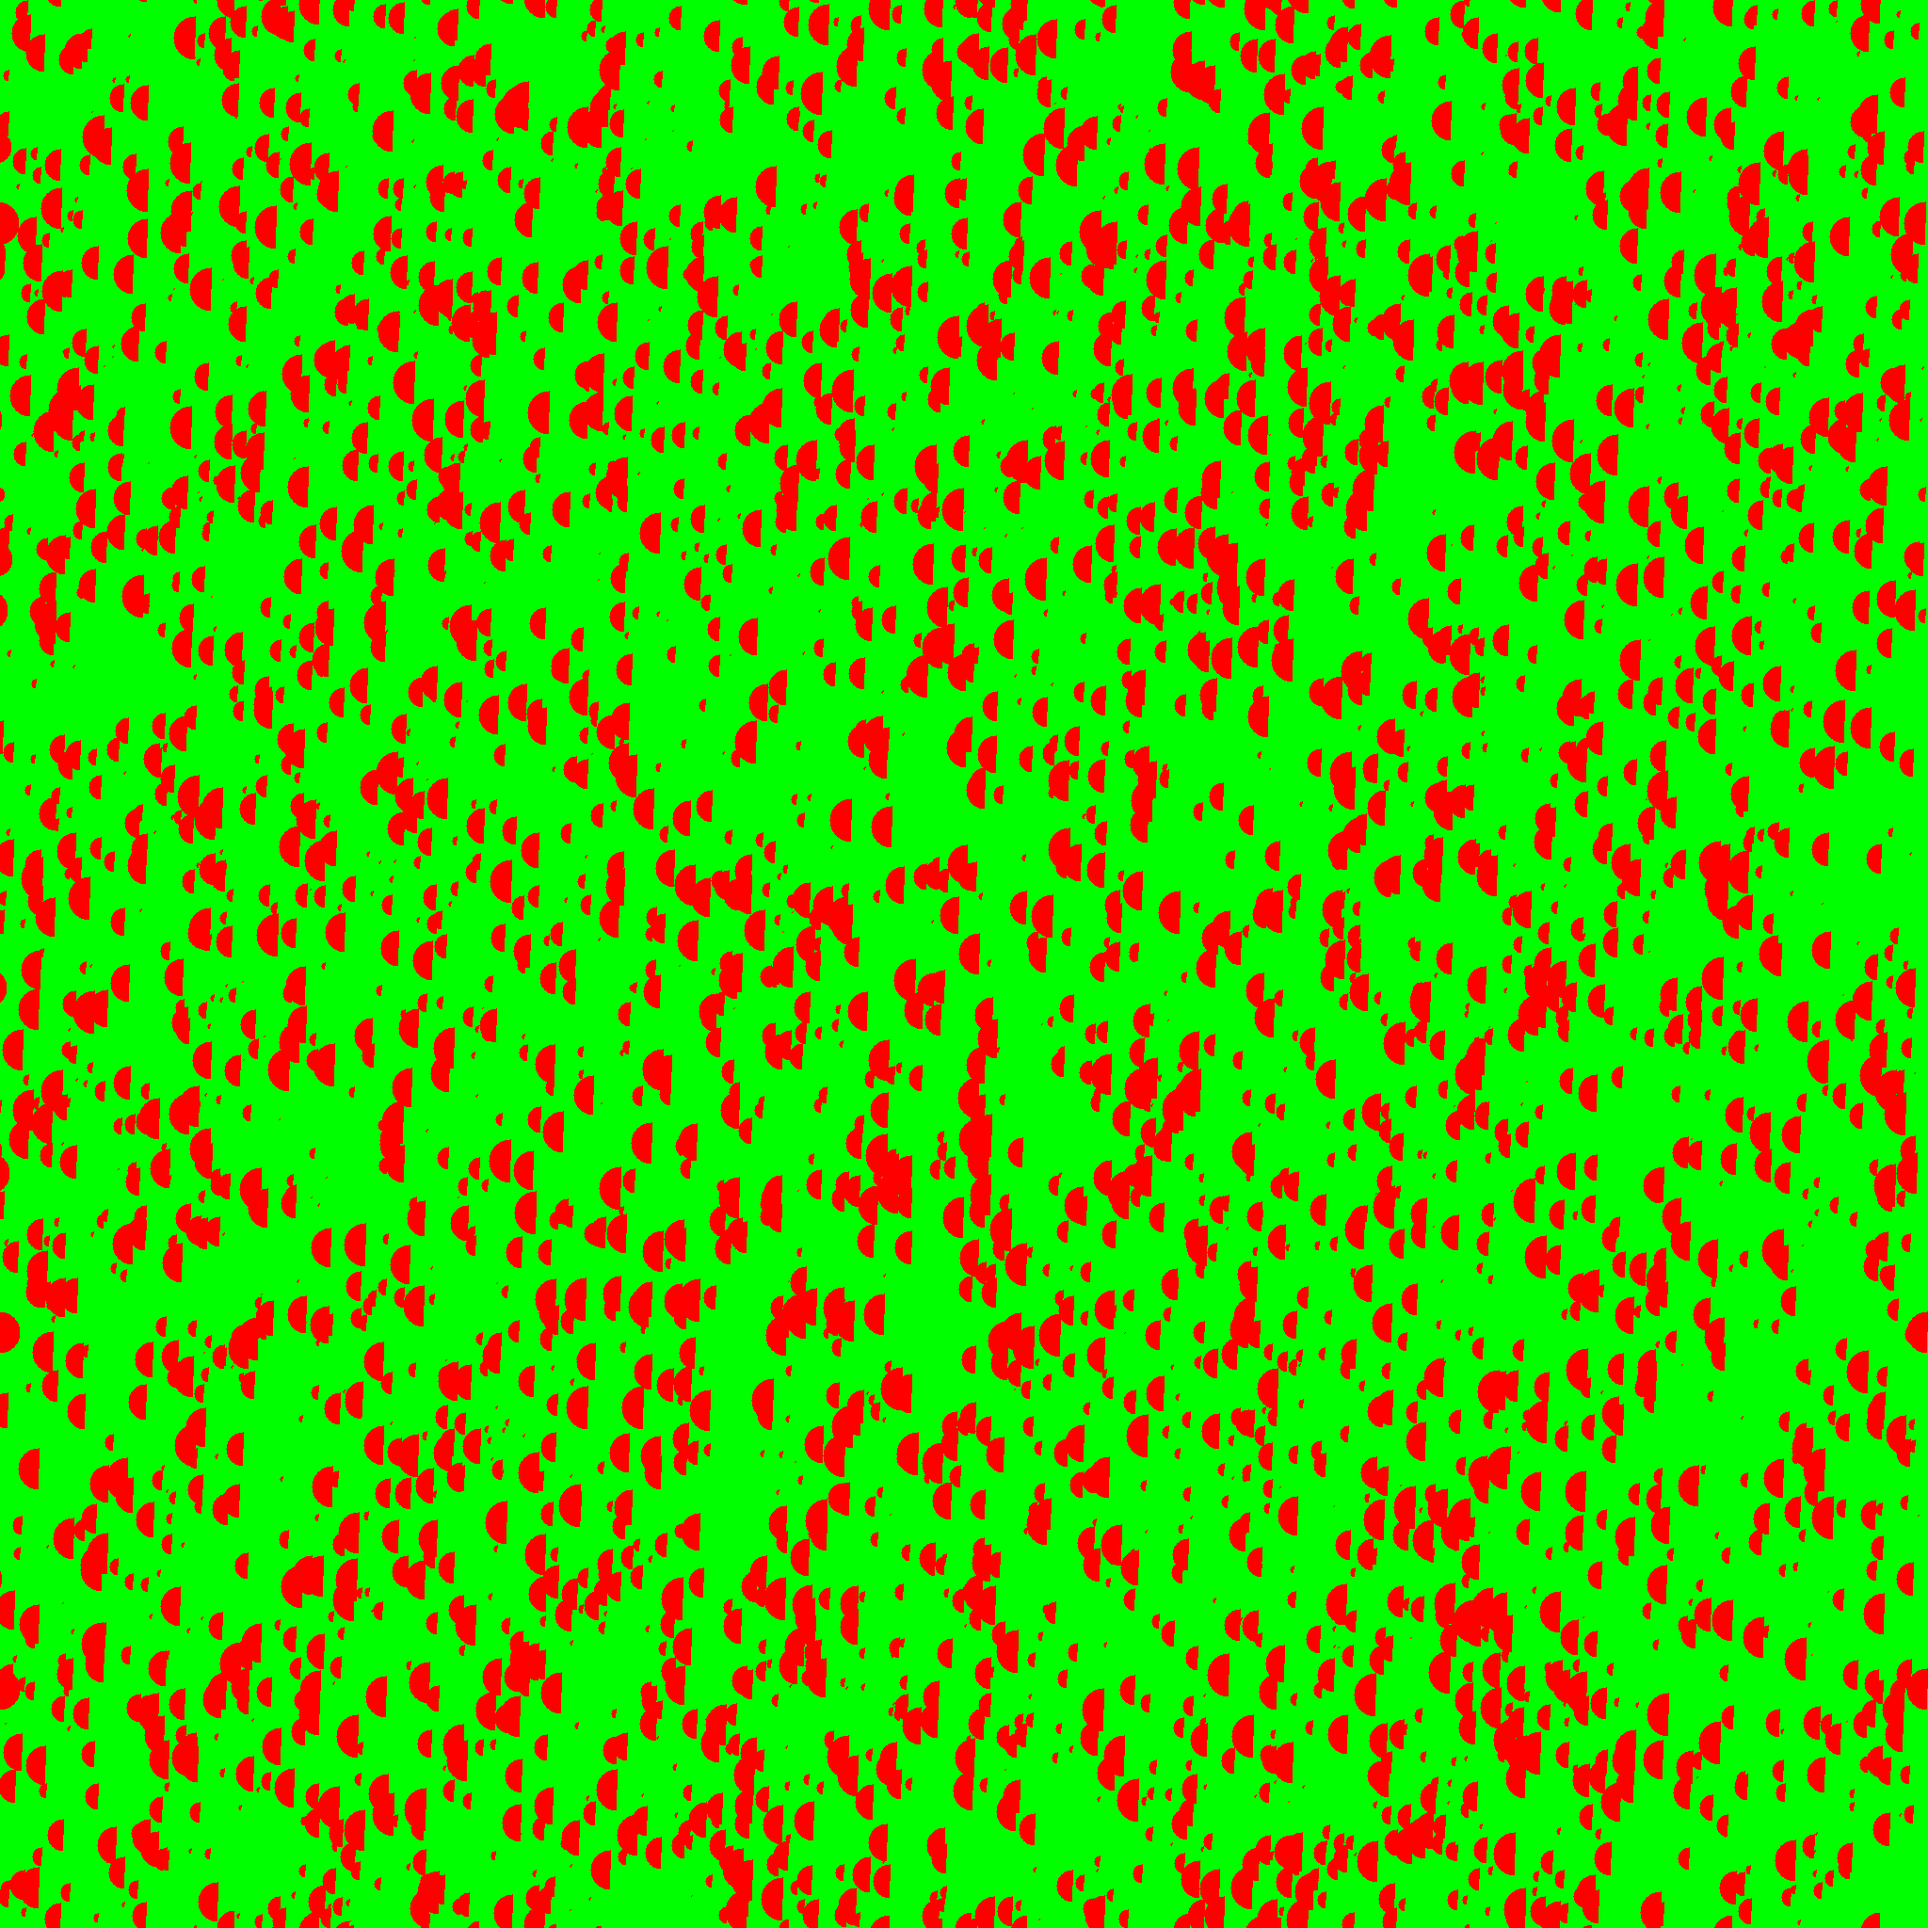
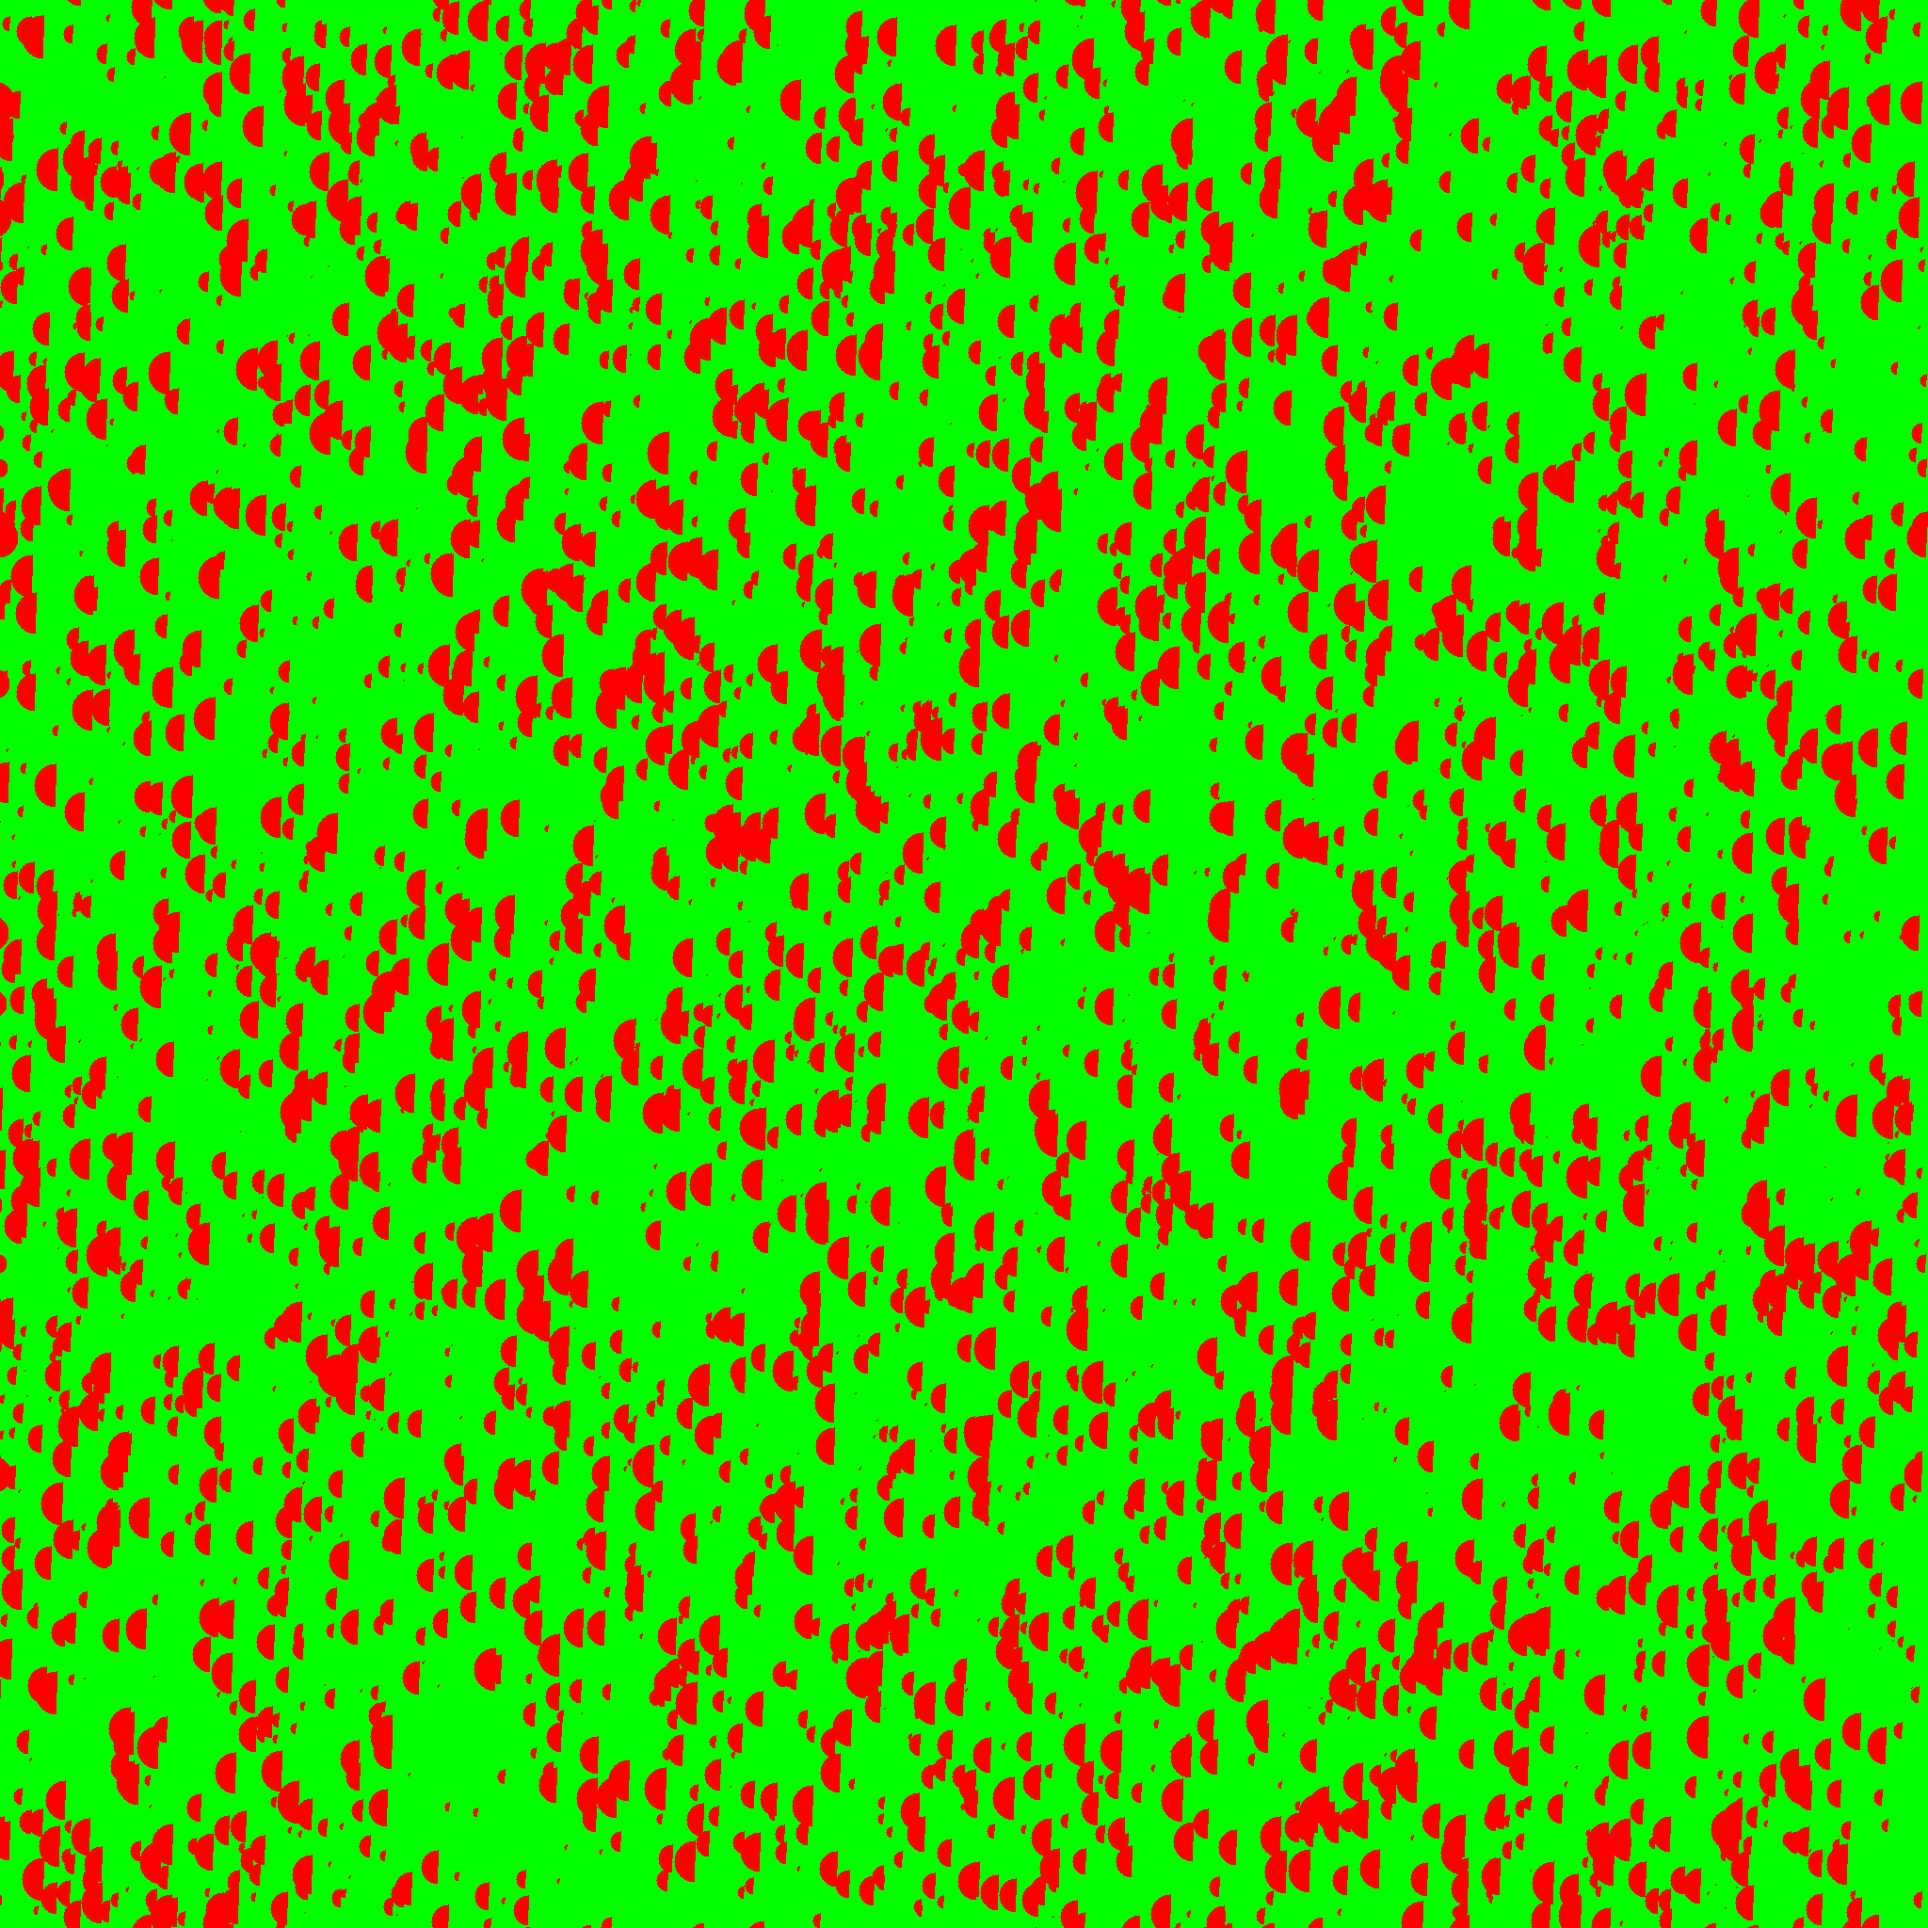
update

diff --git a/src/rt/main/actors/Block.java b/src/rt/main/actors/Block.java
@@ -33,8 +33,6 @@ public class Block extends BoxActor {
 		}else{ 
 			draw = false;
 		}
-
-		tickle();
 	}
 
 	@Override
@@ -89,32 +87,32 @@ public class Block extends BoxActor {
 				Block block_top = chunk.getBlock((int)(x/SIZE)%16, Math.min(Chunk.HEIGHT, (int)((y+Block.SIZE)%(mod)) / mod_div), (int)(z/SIZE)%16);
 				if(block_top.isSolid()){
 					if(!(block_top.isTransparent()))
-						this.sides[2].draw = false;
+						this.getSide("top").draw = false;
 				}
 				Block block_bottom = chunk.getBlock((int)(x/SIZE)%16, Math.max(0, (int)((y-Block.SIZE)%(mod)) / mod_div), (int)(z/SIZE)%16);
 				if(block_bottom.isSolid()){
 					if(!(block_bottom.isTransparent()))
-						this.sides[3].draw = false;
+						this.getSide("bottom").draw = false;
 				}
 				Block block_left = chunk.getBlock(Math.max(0, (int)((x-Block.SIZE)/SIZE)%16), (int)((y)%(mod)) / mod_div, (int)(z/SIZE)%16);
 				if(block_left.isSolid()){
 					if(!(block_left.isTransparent()))
-						this.sides[0].draw = false;
+						this.getSide("left").draw = false;
 				}
 				Block block_right = chunk.getBlock(Math.min(16, (int)((x+Block.SIZE)/SIZE)%16), (int)((y)%(mod)) / mod_div, (int)(z/SIZE)%16);
 				if(block_right.isSolid()){
 					if(!(block_right.isTransparent()))
-						this.sides[1].draw = false;
+						this.getSide("right").draw = false;
 				}
 				Block block_front = chunk.getBlock((int)(x/SIZE)%16, (int)((y)%(mod)) / mod_div, Math.min(16, (int)((z+Block.SIZE)/SIZE)%16));
 				if(block_front.isSolid()){
 					if(!(block_front.isTransparent()))
-						this.sides[4].draw = false;
+						this.getSide("front").draw = false;
 				}
 				Block block_back = chunk.getBlock((int)(x/SIZE)%16, (int)((y)%(mod)) / mod_div, Math.max(0, (int)((z-Block.SIZE)/SIZE)%16));
 				if(block_back.isSolid()){
 					if(!(block_back.isTransparent()))
-						this.sides[5].draw = false;
+						this.getSide("back").draw = false;
 				}
 			}
 		}

diff --git a/src/rt/main/actors/BoxSide.java b/src/rt/main/actors/BoxSide.java
@@ -34,6 +34,7 @@ public class BoxSide{
 			//back
 			if(type.equals("back")){
 				GL11.glPushMatrix();
+			    GL11.glCullFace(GL11.GL_BACK);
 				if(texture != null){
 					GL11.glEnable(GL11.GL_TEXTURE_2D);
 					texture.bind();
@@ -63,6 +64,7 @@ public class BoxSide{
 			//front
 			if(type.equals("front")){
 				GL11.glPushMatrix();
+				GL11.glCullFace(GL11.GL_FRONT);
 				if(texture != null){
 					GL11.glEnable(GL11.GL_TEXTURE_2D);
 					texture.bind();
@@ -93,6 +95,7 @@ public class BoxSide{
 			//left
 			if(type.equals("left")){
 				GL11.glPushMatrix();
+				GL11.glCullFace(GL11.GL_LEFT);
 				if(texture != null){
 					GL11.glEnable(GL11.GL_TEXTURE_2D);
 					texture.bind();
@@ -120,6 +123,7 @@ public class BoxSide{
 			//right
 			if(type.equals("right")){
 				GL11.glPushMatrix();
+				GL11.glCullFace(GL11.GL_RIGHT);
 				if(texture != null){
 					GL11.glEnable(GL11.GL_TEXTURE_2D);
 					texture.bind();
@@ -148,6 +152,7 @@ public class BoxSide{
 			//bottom
 			if(type.equals("bottom")){
 				GL11.glPushMatrix();
+				//GL11.glCullFace(GL11.GL_BOTTOM);
 				if(texture != null){
 					GL11.glEnable(GL11.GL_TEXTURE_2D);
 					texture.bind();
@@ -177,6 +182,7 @@ public class BoxSide{
 			//top
 			if(type.equals("top")){
 				GL11.glPushMatrix();
+				//GL11.glCullFace(GL11.GL_);
 				if(texture != null){
 					GL11.glEnable(GL11.GL_TEXTURE_2D);
 					texture.bind();

diff --git a/src/rt/main/scenes/worlds/Chunk.java b/src/rt/main/scenes/worlds/Chunk.java
@@ -172,6 +172,7 @@ public class Chunk extends Actor {
 		}
 		
 		
+		
 		this.loaded = true;
 	}
 	
@@ -193,7 +194,13 @@ public class Chunk extends Actor {
 		for(int xx = 0; xx < WIDTH; xx++){
 			for(int yy = 0; yy < HEIGHT; yy++){
 				for(int zz = 0; zz < WIDTH; zz++){
-					blocks[xx][yy][zz].tickle();
+					blocks[Smart.mod(xx-1, Chunk.WIDTH)][yy][zz].tickle();
+					blocks[Smart.mod(xx+1, Chunk.WIDTH)][yy][zz].tickle();
+					blocks[xx][Smart.mod(yy-1, Chunk.HEIGHT)][zz].tickle();
+					blocks[xx][Smart.mod(yy+1, Chunk.HEIGHT)][zz].tickle();
+					blocks[xx][yy][Smart.mod(zz-1, Chunk.WIDTH)].tickle();
+					blocks[xx][yy][Smart.mod(zz+1, Chunk.WIDTH)].tickle();
+					System.out.println("tickled");
 				}
 			}
 		}
@@ -286,6 +293,7 @@ public class Chunk extends Actor {
 				
 			}
 		}
+		
 		
 		this.loaded = true;
 	}

diff --git a/src/rt/main/scenes/worlds/World.java b/src/rt/main/scenes/worlds/World.java
@@ -25,10 +25,6 @@ public class World extends Scene {
 		generateChunks();
 		if(worldgenerator.generate()){System.out.println("Done!");}
 
-
-		//chunkHandler = new ChunkHandler(chunks);
-		//chunkHandler.start();
-
 		player = new Player(this, 4, 24, 4);
 		stageActor(player);
 
@@ -37,12 +33,6 @@ public class World extends Scene {
 
 	@Override
 	public void tick(int delta) {
-
-		//updateBlocks(delta);
-		/*Block block = getCamera().getFacingBlock();
-		if(block != null){
-			block.getHitbox().setDraw(true);
-		}*/
 
 		getCamera().x = getPlayer().x;
 		getCamera().y = getPlayer().y+(Block.SIZE * 2) - 0.25f;

diff --git a/src/rt/main/actors/BoxActor.java b/src/rt/main/actors/BoxActor.java
@@ -13,12 +13,12 @@ public abstract class BoxActor extends Actor {
 	private float length = 16;
 
 	public BoxSide[] sides = new BoxSide[]{
-			new BoxSide(this, "left"),
 			new BoxSide(this, "right"),
-			new BoxSide(this, "top"),
-			new BoxSide(this, "bottom"),
 			new BoxSide(this, "front"),
-			new BoxSide(this, "back")
+			new BoxSide(this, "left"),
+			new BoxSide(this, "back"),
+			new BoxSide(this, "top"),
+			new BoxSide(this, "bottom")
 	};
 
 	public BoxActor(Scene scene, float x, float y, float z) {

diff --git a/src/rt/main/actors/Player.java b/src/rt/main/actors/Player.java
@@ -32,7 +32,7 @@ public class Player extends Entity {
 		while(Keyboard.next()){
 			if (Keyboard.getEventKeyState()){
 				if(Keyboard.getEventKey() == Keyboard.KEY_LCONTROL){
-				 getChunk().setBlock(Smart.mod(x, Chunk.WIDTH), Smart.mod(y, Chunk.HEIGHT), Smart.mod(z, Chunk.WIDTH), BlockType.getRandom());
+					getChunk().setBlock(Smart.mod(x, Chunk.WIDTH), Smart.mod(y, Chunk.HEIGHT), Smart.mod(z, Chunk.WIDTH), BlockType.getRandom());
 				}
 				if(Keyboard.getEventKey() == Keyboard.KEY_R){
 					y = 120;

diff --git a/src/rt/main/Camera.java b/src/rt/main/Camera.java
@@ -173,9 +173,8 @@ public class Camera extends Actor {
 
 				if(block.ray.getChunk().getBlock(Smart.mod(placex, Chunk.WIDTH), Smart.mod(placey, Chunk.HEIGHT), Smart.mod(placez, Chunk.WIDTH)).getType().equals(BlockType.AIR)){
 					block.ray.getChunk().setBlock(Smart.mod(placex, Chunk.WIDTH), Smart.mod(placey, Chunk.HEIGHT), Smart.mod(placez, Chunk.WIDTH), BlockType.COBBLE);
+					
 				}
-
-
 
 				}
 			}

diff --git a/src/rt/main/actors/Entity.java b/src/rt/main/actors/Entity.java
@@ -184,10 +184,14 @@ public abstract class Entity extends Actor {
 			if(!chunk.chunkFileExists()){
 				chunk.setAir();
 				chunk.generate();
+				chunk.tickle();
+				chunk.getBlock(3, 3, 3).tickle();
 				chunk.save();
 
 			}else{
 				chunk.load();
+				chunk.tickle();
+				chunk.getBlock(3, 3, 3).tickle();
 			}
 		}
 
